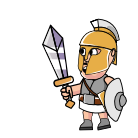
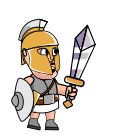
add damage npc for player

diff --git a/characters/entity.py b/characters/entity.py
@@ -1,3 +1,4 @@
+from asyncore import loop
 import random
 import pygame
 
@@ -15,7 +16,7 @@ class Entity(Animate_Sprite):
         self.speed_walk = 3
         self.speed_run = 5
         self.all_projectiles = pygame.sprite.Group()
-        self.feet = pygame.Rect(0, 0, self.rect.width * 0.5, 12)
+        self.feet = pygame.Rect(0, 0, self.rect.width * 0.2, 12)
         self.old_position = self.position.copy()
         self.jump = 0
         self.jump_high = 0
@@ -23,12 +24,8 @@ class Entity(Animate_Sprite):
         self.number_jump = 0
         self.to_jump = False
 
-    # def get(self):
-    #     self.image = self.images["down"]
-    #     self.image.set_colorkey([0, 0, 0])
-    #     return self.image
-
-    def save_location(self): self.old_position = self.position.copy()
+    def save_location(self):
+        self.old_position = self.position.copy()
 
     def launch_projectile(self):
         # creer une nouvel instance de la classe projectile
@@ -41,10 +38,9 @@ class Entity(Animate_Sprite):
         self.status = 'run'
         self.animation_speed = 0.25
 
-    
     def move_left(self):
         self.facing_right = False
-        self.position[0] -= self.speed_walk 
+        self.position[0] -= self.speed_walk
         # self.moves()
         self.status = 'run'
         self.animation_speed = 0.25
@@ -57,13 +53,10 @@ class Entity(Animate_Sprite):
 
     def move_left_npc(self):
         self.facing_right = False
-        self.position[0] -= self.speed_walk 
+        self.position[0] -= self.speed_walk
         # self.moves()
         self.status = 'run'
         self.animation_speed = 0.25
-
-    # def moves(self):
-    #     self.position[0] += self.speed_walk
 
     def run_right(self):
         self.position[0] += self.speed_run
@@ -113,20 +106,26 @@ class Entity(Animate_Sprite):
 class Player(Entity):
 
     def __init__(self):
-        super().__init__("player", 0, 0)
+        super().__init__("PLAYER", 0, 0)
         self.current_health = 100
         self.max_health = 100
+        self.attack_npc = 5
+
+    def is_dead(self):
+        self.current_health == 0
+        self.status = "dead"
+        self.animation_speed = 0.10
+    
+    def attack(self):
+        self.status = 'attack'
 
 
     def damage(self, amount):
         if self.current_health - amount > amount:
             self.current_health -= amount
-
-    def is_dead(self):
-        self.current_health = 0
-        self.status = "dead"
-        self.animation_speed = 0.10
-
+        else:
+            self.status = 'dead'
+            
     def update_health_bar(self, surface):
         # dessiner la bar de vie
         head = pygame.image.load('assets/head/head.png')
@@ -154,7 +153,17 @@ class NPC(Entity):
         self.points = []
         self.name = name
         self.speed_walk = random.randint(1, 3)
+        self.current_health = 100
+        self.max_health = 100
+        self.attack = 0.5
         self.current_point = 0
+
+    def update_health_bar(self, surface):
+        # dessiner la barre de vie
+        pygame.draw.rect(surface, (60, 63, 60), [
+                         self.position[0], self.position[1], self.max_health, 5])
+        pygame.draw.rect(surface, (111, 210, 46), [
+                         self.position[0], self.position[1], self.current_health, 5])
 
     def teleport_spawn(self):
         location = self.points[self.current_point]
@@ -174,14 +183,26 @@ class NPC(Entity):
 
         if current_rect.x > target_rect.x and abs(current_rect.y - target_rect.y) < 3:
             self.move_left_npc()
-            self.animate()
+
         if current_rect.x < target_rect.x and abs(current_rect.y - target_rect.y) < 3:
             self.move_right_npc()
-            self.animate()
-            
 
         if self.rect.colliderect(target_rect):
             self.current_point = target_point
+
+    def damage(self, amount):
+        #infliger les degat
+        self.current_health -= amount
+
+    def is_dead(self):
+        self.current_health == 0
+        self.status = "dead"
+        self.animation_speed = 0.10
+
+    def attack_player(self):
+        self.speed_walk = 0
+        if self.speed_walk >= 0:
+            self.status = 'attack'
 
     def load_points(self, tmx_data):
         for num in range(1, self.nb_points+1):

diff --git a/game.py b/game.py
@@ -1,6 +1,6 @@
 import pygame
 from Data.Map.map import MapManager
-from characters.entity import Player
+from characters.entity import NPC, Player
 
 
 class Game:
@@ -9,6 +9,7 @@ class Game:
         self.is_playing = False
         # creation de la fenetre du jeu
         self.screen = screen
+        self.font = pygame.font.Font('freesansbold.ttf', 55)
 
         # generer un joueur
         self.player = Player()
@@ -18,7 +19,7 @@ class Game:
 
     def player_dead(self):
         if self.player.current_health == 0:
-            self.game_over()
+            self.game_over_text()
 
     def start(self):
         self.is_playing = True
@@ -28,7 +29,11 @@ class Game:
         self.map_manager.update()
         self.map_manager.teleport_player("player")
         self.player.status = 'idle'
-        self.player.current_health = self.player.max_health      
+        self.player.current_health = self.player.max_health
+
+    def game_over_text(self):
+        over_text = self.font.render("GAME OVER", True, (64, 64, 64))
+        self.screen.blit(over_text, (580, 200))
 
     def game_over(self):
         # remettre le jeu a neuf, retirer les mponstre remmetre le joueur a 100 point de vie , jeu en attente
@@ -65,11 +70,10 @@ class Game:
         if self.pressed.get(pygame.K_q) and self.pressed.get(pygame.K_LSHIFT):
             self.player.run_left()
         if self.pressed.get(pygame.K_SPACE):
-            self.player.status = "attack"
-            self.player.launch_projectile()
+            self.player.attack()
             self.player.animation_speed = 0.23
         # if self.pressed.get(pygame.K_LCTRL):
-        #     self.player.launch_projectile()
+        #     self.player.status = "spattack"
 
     def update(self):
         self.map_manager.update()
@@ -77,7 +81,6 @@ class Game:
         self.move()
         self.map_manager.draw()
         self.player.animate()
-        self.player.update_health_bar(self.screen)
         self.player_dead()
 
 

diff --git a/Data/Map/map.py b/Data/Map/map.py
@@ -72,7 +72,8 @@ class MapManager:
 
             if type(sprite) is NPC:
                 if sprite.feet.colliderect(self.player.rect):
-                    sprite.speed_walk = 0
+                    sprite.attack_player()
+                    self.player.damage(sprite.attack)
                 else:
                     sprite.speed_walk= 1
 
@@ -182,8 +183,11 @@ class MapManager:
 
     def draw(self):
         self.get_group().draw(self.screen)
-        self.get_group().center(self.player.rect.center)
-        # self.draw_collision()
+        self.get_group().center(self.player.position)
+        self.player.update_health_bar(self.screen)
+        for npc in self.get_map().npcs:
+            npc.update_health_bar(self.screen)
+        self.draw_collision()
 
     def update(self):
         self.get_group().update()
@@ -191,4 +195,6 @@ class MapManager:
         self.check_collision()
         self.check_spade_collision()
         for npc in self.get_map().npcs:
+            npc.animate()
+            npc.status = 'idle'
             npc.move()

diff --git a/characters/Player/Animatesprite/animatesprite.py b/characters/Player/Animatesprite/animatesprite.py
@@ -31,8 +31,8 @@ class Animate_Sprite(pygame.sprite.Sprite):
 
     def import_character_assets(self):
         self.character_path
-        self.animations = {'idle': [], 'run': [],
-                           'jump': [], 'attack': [], 'dead': []}
+        self.animations = {'idle': [], 'run': [], 'roll': [],
+                           'jump': [], 'fall': [], 'attack': [], 'spattack': [], 'dead': []}
 
         for animation in self.animations.keys():
             full_path = self.character_path + animation
